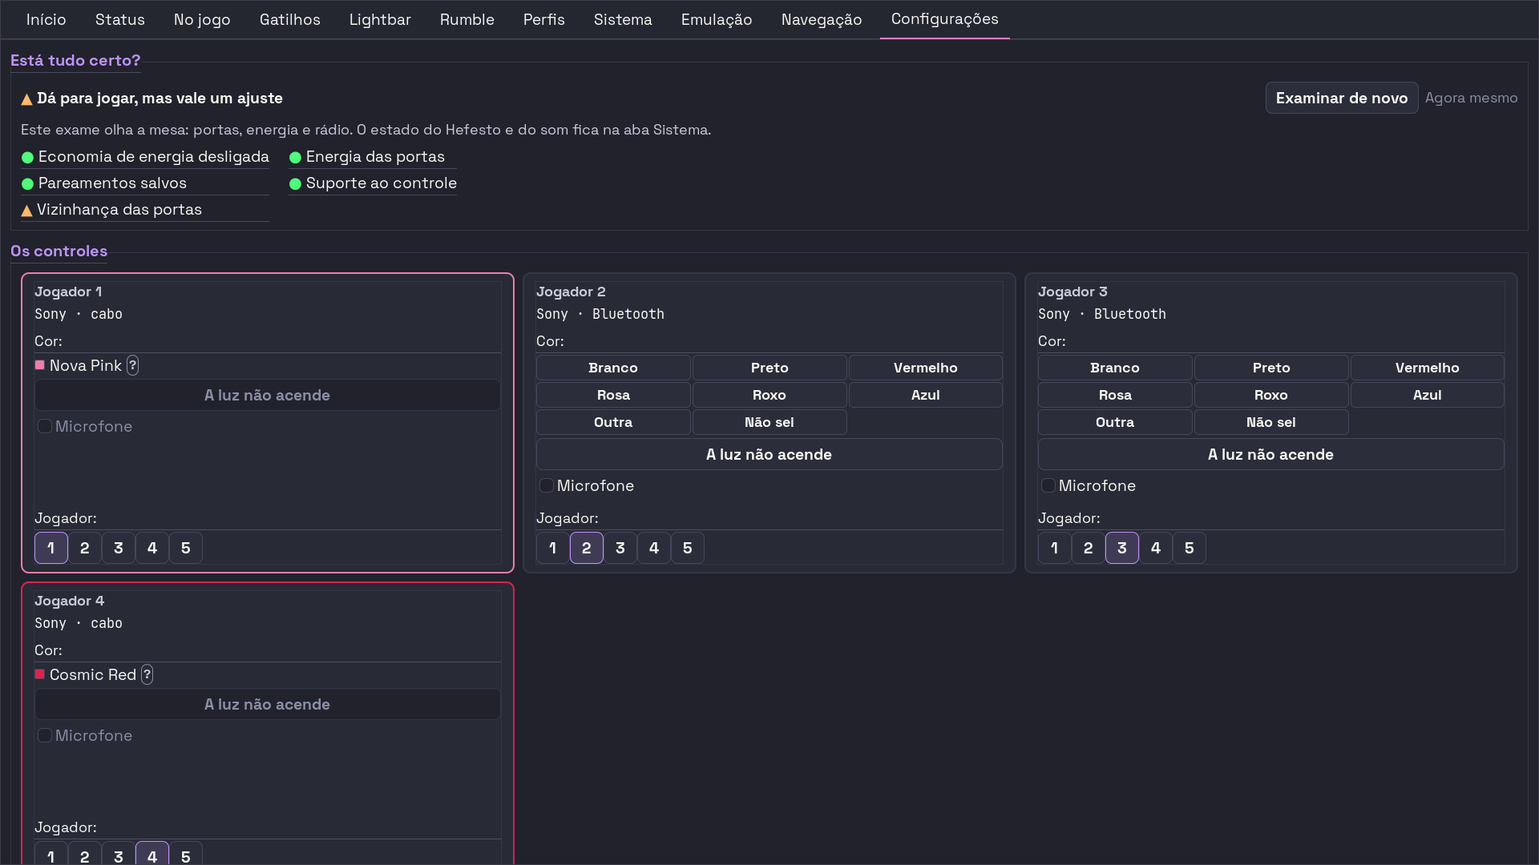
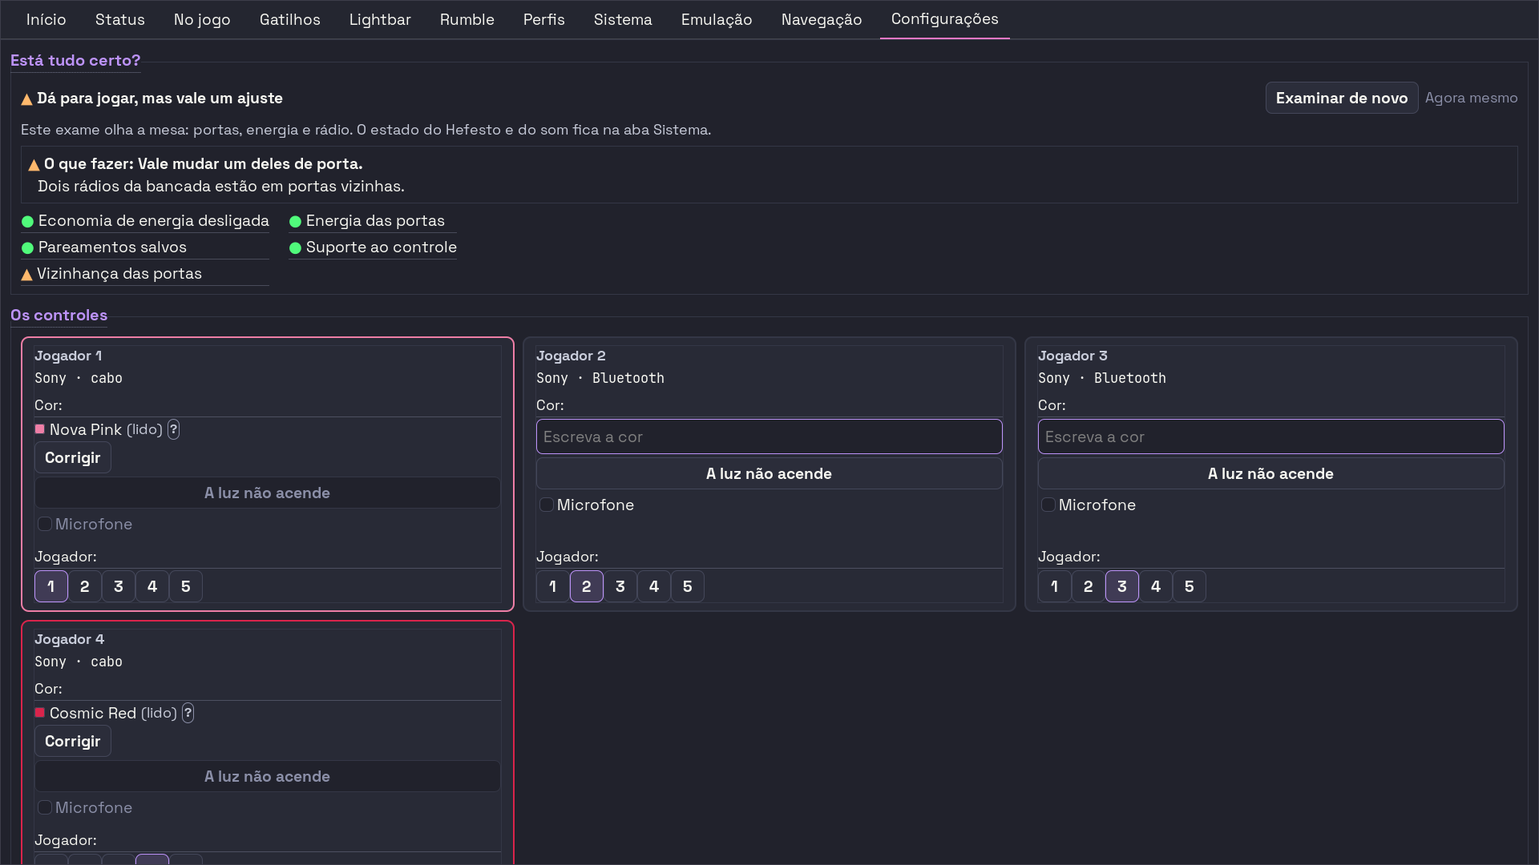
merge(onda-1): as seis frentes chegam ao dev, e a ordem de serviço aparece na tela
Seis árvores, seis merges, ZERO conflitos — e isso é o resultado de medir a
posse antes, não sorte. Cada agente ficou dentro da própria lista; o único que
tocou fora (G4, uma fixture gerada do mockup dele) DECLAROU em vez de esconder,
que é o comportamento que a R1 pede.

O QUE A PESSOA VÊ AGORA, na foto refeita da aba Configurações:

    ▲ O que fazer: Vale mudar um deles de porta.
      Dois rádios da bancada estão em portas vizinhas.

Estava dentro de um `set_tooltip_text`. Quem não passasse o mouse por cima da
palavra certa nunca descobria.

AS SEIS: G1 a ordem de serviço vira card, com as três linhas de procedência e a
que confessa ganho não medido SEMPRE visível · G3 o esquema aprende `perto`,
`alto` e `par`, e a declaração desce ao disco com o daemon parado · G4 os três
números do rádio passam a ter um dono só, no Python E no mockup · G7 o install
lê o firmware e grava o gabinete com selo por campo · G8 o berço fecha a janela
do teardown · G9 o léxico nos arquivos que a frente possui.

**As seis mordidas MORDEM** — arrancadas, reprovaram, devolvidas.

A INTEGRAÇÃO, que é onde o preço aparece:

- **26 lápides apagadas** do portão da casa: a cura chegou e elas ficaram, que é
  como um registro honesto vira mentira. Uma lápide NOVA nasceu declarada no
  lugar delas (`mapa_das_portas::irmas_de`), porque quem a consome é a G5 e a G5
  não saiu nesta leva.
- **Dois vermelhos previstos pelo G9**, e ele deixou o conserto escrito: a frase
[…]

diff --git a/painel.html b/painel.html
@@ -163,7 +163,7 @@ footer a { color: var(--color-accent); }
 <body>
 <div class="envelope">
 
-  <p class="selo">gerado em 25/08/2026 às 21:39 · branch dev · 0a42f08</p>
+  <p class="selo">gerado em 25/08/2026 às 22:00 · branch dev · 69aee15</p>
   <h1><b>Hefesto</b> · painel do projeto</h1>
   <p class="lede">O irmão do <a href="specs.html">mapa de canais</a>. Aquele responde
      <em>o que o aparelho entende</em>; este responde <em>onde o projeto está</em>.
@@ -259,8 +259,8 @@ footer a { color: var(--color-accent); }
        idade ao lado. <strong>Ausência de medição é declarada, nunca preenchida com
        zero</strong> — é a mesma regra do mapa de canais, e existe porque zero pinta
        verde.</p>
-    <p>Árvore: 1 arquivo(s) com mudança não commitada em
-       <code>0a42f08</code> — <em>chore(posse): as oito sprints de daemon e co-op ganham dono, e nasce a leva de background</em>.</p>
+    <p>Árvore: 6 arquivo(s) com mudança não commitada em
+       <code>69aee15</code> — <em>merge(CONFIGURACOES-O-LEXICO-01-G9): a frente chega ao dev</em>.</p>
   </footer>
 
 </div>

diff --git a/tests/unit/portao_a_casa_sabe_e_o_produto_nao_faz.py b/tests/unit/portao_a_casa_sabe_e_o_produto_nao_faz.py
@@ -1410,45 +1410,6 @@ _SEM_CAMINHO_HOJE: dict[str, str] = {
     ),
     # --- 25/08/2026: `integrations/entradas_do_gabinete.py` nasceu nesta
     #     madrugada, e ainda não tem tela que o consuma
-    "integrations/entradas_do_gabinete.py::Furo": (
-        "MEDIDO em 25/08/2026: nasceu HOJE, na CAL-1 da CALIBRAR-AS- "
-        "ENTRADAS-01, cuja tela ela APROVOU vendo o mockup às 03h55. Responde "
-        "o que nenhuma leitura respondia: quais entradas USB EXISTEM, "
-        "**incluindo as vazias** — o nó da entrada existe com `state = not "
-        "attached`, e é isso que torna a calibração possível sem root. ONDE O "
-        "CAMINHO SE PERDE: as telas da calibração (CAL-3 a CAL-7) ficaram "
-        "para a leva seguinte, porque dependem do campo `mapa` que outra "
-        "frente escrevia em paralelo. O QUE O FECHA: a janela de calibração. "
-        "A mordida do agrupamento por `peer` foi refeita por quem coordena: "
-        "arrancada, 4 reprovam (o par 2.0/3.0 vira dois buracos e a caminhada "
-        "passa a visitar o buraco ocupado); devolvida, 12 passam. "
-    ),
-    "integrations/entradas_do_gabinete.py::NoDeEntrada": (
-        "MEDIDO em 25/08/2026: nasceu HOJE, na CAL-1 da CALIBRAR-AS- "
-        "ENTRADAS-01, cuja tela ela APROVOU vendo o mockup às 03h55. Responde "
-        "o que nenhuma leitura respondia: quais entradas USB EXISTEM, "
-        "**incluindo as vazias** — o nó da entrada existe com `state = not "
-        "attached`, e é isso que torna a calibração possível sem root. ONDE O "
-        "CAMINHO SE PERDE: as telas da calibração (CAL-3 a CAL-7) ficaram "
-        "para a leva seguinte, porque dependem do campo `mapa` que outra "
-        "frente escrevia em paralelo. O QUE O FECHA: a janela de calibração. "
-        "A mordida do agrupamento por `peer` foi refeita por quem coordena: "
-        "arrancada, 4 reprovam (o par 2.0/3.0 vira dois buracos e a caminhada "
-        "passa a visitar o buraco ocupado); devolvida, 12 passam. "
-    ),
-    "integrations/entradas_do_gabinete.py::entrada_de": (
-        "MEDIDO em 25/08/2026: nasceu HOJE, na CAL-1 da CALIBRAR-AS- "
-        "ENTRADAS-01, cuja tela ela APROVOU vendo o mockup às 03h55. Responde "
-        "o que nenhuma leitura respondia: quais entradas USB EXISTEM, "
-        "**incluindo as vazias** — o nó da entrada existe com `state = not "
-        "attached`, e é isso que torna a calibração possível sem root. ONDE O "
-        "CAMINHO SE PERDE: as telas da calibração (CAL-3 a CAL-7) ficaram "
-        "para a leva seguinte, porque dependem do campo `mapa` que outra "
-        "frente escrevia em paralelo. O QUE O FECHA: a janela de calibração. "
-        "A mordida do agrupamento por `peer` foi refeita por quem coordena: "
-        "arrancada, 4 reprovam (o par 2.0/3.0 vira dois buracos e a caminhada "
-        "passa a visitar o buraco ocupado); devolvida, 12 passam. "
-    ),
     "integrations/entradas_do_gabinete.py::furo_declarado": (
         "MEDIDO em 25/08/2026: nasceu HOJE, na CAL-1 da CALIBRAR-AS- "
         "ENTRADAS-01, cuja tela ela APROVOU vendo o mockup às 03h55. Responde "
@@ -1462,56 +1423,7 @@ _SEM_CAMINHO_HOJE: dict[str, str] = {
         "arrancada, 4 reprovam (o par 2.0/3.0 vira dois buracos e a caminhada "
         "passa a visitar o buraco ocupado); devolvida, 12 passam. "
     ),
-    "integrations/entradas_do_gabinete.py::furos": (
-        "MEDIDO em 25/08/2026: nasceu HOJE, na CAL-1 da CALIBRAR-AS- "
-        "ENTRADAS-01, cuja tela ela APROVOU vendo o mockup às 03h55. Responde "
-        "o que nenhuma leitura respondia: quais entradas USB EXISTEM, "
-        "**incluindo as vazias** — o nó da entrada existe com `state = not "
-        "attached`, e é isso que torna a calibração possível sem root. ONDE O "
-        "CAMINHO SE PERDE: as telas da calibração (CAL-3 a CAL-7) ficaram "
-        "para a leva seguinte, porque dependem do campo `mapa` que outra "
-        "frente escrevia em paralelo. O QUE O FECHA: a janela de calibração. "
-        "A mordida do agrupamento por `peer` foi refeita por quem coordena: "
-        "arrancada, 4 reprovam (o par 2.0/3.0 vira dois buracos e a caminhada "
-        "passa a visitar o buraco ocupado); devolvida, 12 passam. "
-    ),
-    "integrations/entradas_do_gabinete.py::listar_entradas": (
-        "MEDIDO em 25/08/2026: nasceu HOJE, na CAL-1 da CALIBRAR-AS- "
-        "ENTRADAS-01, cuja tela ela APROVOU vendo o mockup às 03h55. Responde "
-        "o que nenhuma leitura respondia: quais entradas USB EXISTEM, "
-        "**incluindo as vazias** — o nó da entrada existe com `state = not "
-        "attached`, e é isso que torna a calibração possível sem root. ONDE O "
-        "CAMINHO SE PERDE: as telas da calibração (CAL-3 a CAL-7) ficaram "
-        "para a leva seguinte, porque dependem do campo `mapa` que outra "
-        "frente escrevia em paralelo. O QUE O FECHA: a janela de calibração. "
-        "A mordida do agrupamento por `peer` foi refeita por quem coordena: "
-        "arrancada, 4 reprovam (o par 2.0/3.0 vira dois buracos e a caminhada "
-        "passa a visitar o buraco ocupado); devolvida, 12 passam. "
-    ),
-    "integrations/entradas_do_gabinete.py::vazias": (
-        "MEDIDO em 25/08/2026: nasceu HOJE, na CAL-1 da CALIBRAR-AS- "
-        "ENTRADAS-01, cuja tela ela APROVOU vendo o mockup às 03h55. Responde "
-        "o que nenhuma leitura respondia: quais entradas USB EXISTEM, "
-        "**incluindo as vazias** — o nó da entrada existe com `state = not "
-        "attached`, e é isso que torna a calibração possível sem root. ONDE O "
-        "CAMINHO SE PERDE: as telas da calibração (CAL-3 a CAL-7) ficaram "
-        "para a leva seguinte, porque dependem do campo `mapa` que outra "
-        "frente escrevia em paralelo. O QUE O FECHA: a janela de calibração. "
-        "A mordida do agrupamento por `peer` foi refeita por quem coordena: "
-        "arrancada, 4 reprovam (o par 2.0/3.0 vira dois buracos e a caminhada "
-        "passa a visitar o buraco ocupado); devolvida, 12 passam. "
-    ),
     # --- 25/08/2026: `integrations/lugar_declarado.py` nasceu nesta madrugada, e ainda não tem tela
-    "integrations/lugar_declarado.py::Recibo": (
-        "MEDIDO em 25/08/2026: a CAL-2 da calibração. Existe para curar um "
-        "defeito nomeado: hoje o ÚNICO escritor do `maquina.json` é o IPC "
-        "`machine.declare`, logo **com o daemon parado nada do que ela "
-        "declara chega ao disco** — o rodapé responde 'O Hefesto está "
-        "desligado, não gravei o que você declarou'. Este módulo liga o "
-        "`gravar_rascunho_da_mesa`, que estava escrito desde 24/08 e nunca "
-        "teve chamador. ONDE O CAMINHO SE PERDE: quem o chamaria é a janela "
-        "de calibração, que é da leva seguinte. O QUE O FECHA: a CAL-3. "
-    ),
     "integrations/lugar_declarado.py::declarar_a_mesa": (
         "MEDIDO em 25/08/2026: a CAL-2 da calibração. Existe para curar um "
         "defeito nomeado: hoje o ÚNICO escritor do `maquina.json` é o IPC "
@@ -1523,6 +1435,23 @@ _SEM_CAMINHO_HOJE: dict[str, str] = {
         "de calibração, que é da leva seguinte. O QUE O FECHA: a CAL-3. "
     ),
     # --- 25/08/2026: `integrations/mapa_das_portas.py` nasceu nesta madrugada, e ainda não tem tela
+    "integrations/mapa_das_portas.py::irmas_de": (
+        "NASCEU em 25/08/2026, na frente G3, e nasce COM a lápide de propósito. "
+        "É a fonte do `Entrada.par` que `arranjo_da_mesa.nota_de` precisa para "
+        "disparar as penalidades de vizinho rádio (-30 teclado, -45 bluetooth, "
+        "-40 mouse) — sem ela o motor publica juízo otimista demais, dizendo "
+        "'aqui fica bem' onde deveria dizer 'aqui não'. "
+        "POR QUE ACRESCENTAR EM VEZ DE EDITAR `vizinhas_de_verdade`: dois "
+        "batedores mandaram coisas opostas sobre a mesma função, e a que já "
+        "existe tem consumidor e teste — mexer nela para servir a um segundo "
+        "propósito é como se perde a primeira. "
+        "ONDE O CAMINHO SE PERDE: quem a consome é a G5, a janela do desenho "
+        "que julga cada quadrado, e a G5 não saiu nesta leva — ela espera a "
+        "medição das duas réguas do arranjo (decisão dela de 25/08) e o olho "
+        "dela sobre a janela do mapa, que ninguém nunca viu. "
+        "O QUE O FECHA: `mapa_da_mesa.py` chamar `irmas_de(mapa, entradas)` ao "
+        "montar a `Mesa`. Uma linha, quando a G5 sair."
+    ),
     "integrations/mapa_das_portas.py::incoerencias": (
         "MEDIDO em 25/08/2026: as quatro funções de junção da CONEXOES- "
         "MAPA-2D-01 (`portas_livres`, `vizinhas_de_verdade`, `incoerencias`, "
@@ -1536,30 +1465,6 @@ _SEM_CAMINHO_HOJE: dict[str, str] = {
         "extensor) muda o cálculo de vizinhança. "
     ),
     "integrations/mapa_das_portas.py::porta_do_adaptador": (
-        "MEDIDO em 25/08/2026: as quatro funções de junção da CONEXOES- "
-        "MAPA-2D-01 (`portas_livres`, `vizinhas_de_verdade`, `incoerencias`, "
-        "`porta_do_adaptador`). Prontas e testadas. ONDE O CAMINHO SE PERDE: "
-        "quem as consome é a ORDEM-DE-SERVICO-01, que rodou na MESMA "
-        "madrugada, e as tarefas de tela dela pararam no olho dela (D3). O "
-        "QUE O FECHA: as frases da ordem de serviço na aba Conexões. A sprint "
-        "do mapa manda explicitamente que a Frente B consuma "
-        "`vizinhas_de_verdade` em vez de mexer em "
-        "`mesa_de_radio.vizinhancas_apertadas`, porque a porta-filha (o "
-        "extensor) muda o cálculo de vizinhança. "
-    ),
-    "integrations/mapa_das_portas.py::portas_livres": (
-        "MEDIDO em 25/08/2026: as quatro funções de junção da CONEXOES- "
-        "MAPA-2D-01 (`portas_livres`, `vizinhas_de_verdade`, `incoerencias`, "
-        "`porta_do_adaptador`). Prontas e testadas. ONDE O CAMINHO SE PERDE: "
-        "quem as consome é a ORDEM-DE-SERVICO-01, que rodou na MESMA "
-        "madrugada, e as tarefas de tela dela pararam no olho dela (D3). O "
-        "QUE O FECHA: as frases da ordem de serviço na aba Conexões. A sprint "
-        "do mapa manda explicitamente que a Frente B consuma "
-        "`vizinhas_de_verdade` em vez de mexer em "
-        "`mesa_de_radio.vizinhancas_apertadas`, porque a porta-filha (o "
-        "extensor) muda o cálculo de vizinhança. "
-    ),
-    "integrations/mapa_das_portas.py::vizinhas_de_verdade": (
         "MEDIDO em 25/08/2026: as quatro funções de junção da CONEXOES- "
         "MAPA-2D-01 (`portas_livres`, `vizinhas_de_verdade`, `incoerencias`, "
         "`porta_do_adaptador`). Prontas e testadas. ONDE O CAMINHO SE PERDE: "
@@ -1589,65 +1494,15 @@ _SEM_CAMINHO_HOJE: dict[str, str] = {
     # O QUE FECHA: ORDEM-4 liga o catálogo ao exame e ORDEM-5 publica os cards.
     # ORDEM-5 é texto novo na tela e passa pelo olho dela ANTES.
     # DONO: a própria ORDEM-DE-SERVIÇO-01, frente B da leva Configurações.
-    "integrations/ordens_da_mesa.py::catalogo": (
-        "MEDIDO em 25/08/2026: é a porta do módulo — as seis regras entram por "
-        "aqui, e o que sai não é consumido por ninguém. Ver o bloco acima para "
-        "onde o caminho se perde e o que o fecha."
-    ),
-    "integrations/ordens_da_mesa.py::radio_largo_no_mesmo_hub": (
-        "MEDIDO em 25/08/2026: R1, a regra que só existe porque o `peer` "
-        "atravessa o `busnum`. Cai junto com `catalogo` e pelo mesmo motivo — e "
-        "é por isso que não ganha entrada própria de conserto."
-    ),
-    "integrations/ordens_da_mesa.py::dois_radios_colados": (
-        "MEDIDO em 25/08/2026: R2, a que filtra a webcam de cabo. Cai junto com "
-        "`catalogo` e pelo mesmo motivo — e é por isso que não ganha entrada "
-        "própria de conserto."
-    ),
-    "integrations/ordens_da_mesa.py::dongle_atras_de_hub": (
-        "MEDIDO em 25/08/2026: R3, com a contra-regra que nunca acusa dongle de "
-        "dongle. Cai junto com `catalogo` e pelo mesmo motivo — e é por isso "
-        "que não ganha entrada própria de conserto."
-    ),
-    "integrations/ordens_da_mesa.py::teclado_so_no_hub": (
-        "MEDIDO em 25/08/2026: R4, a única que não fala de rádio. Cai junto com "
-        "`catalogo` e pelo mesmo motivo — e é por isso que não ganha entrada "
-        "própria de conserto."
-    ),
-    "integrations/ordens_da_mesa.py::dongle_dorme": (
-        "MEDIDO em 25/08/2026: R5, que CALA nesta bancada, e isso é resultado. "
-        "Cai junto com `catalogo` e pelo mesmo motivo — e é por isso que não "
-        "ganha entrada própria de conserto."
-    ),
-    "integrations/ordens_da_mesa.py::entrada_reclamou_de_corrente": (
-        "MEDIDO em 25/08/2026: R6, que CALA pelo mesmo motivo. Cai junto com "
-        "`catalogo` e pelo mesmo motivo — e é por isso que não ganha entrada "
-        "própria de conserto."
-    ),
     "integrations/ordens_da_mesa.py::cabecalho": (
         "MEDIDO em 25/08/2026: os quatro cabeçalhos da §8.3, derivados num "
         "lugar só. Cai junto com `catalogo` e pelo mesmo motivo — e é por isso "
         "que não ganha entrada própria de conserto."
     ),
-    "integrations/ordens_da_mesa.py::Cabecalho": (
-        "MEDIDO em 25/08/2026: o tipo que `cabecalho` devolve. Cai junto com "
-        "`catalogo` e pelo mesmo motivo — e é por isso que não ganha entrada "
-        "própria de conserto."
-    ),
     "integrations/ordens_da_mesa.py::identidades": (
         "MEDIDO em 25/08/2026: a tripla que decide a ambiguidade, e onde o "
         "serial morre. Cai junto com `catalogo` e pelo mesmo motivo — e é por "
         "isso que não ganha entrada própria de conserto."
-    ),
-    "integrations/ordens_da_mesa.py::Identidade": (
-        "MEDIDO em 25/08/2026: o que `identidades` devolve, já sem o serial. "
-        "Cai junto com `catalogo` e pelo mesmo motivo — e é por isso que não "
-        "ganha entrada própria de conserto."
-    ),
-    "integrations/ordens_da_mesa.py::mesmo_hub_fisico": (
-        "MEDIDO em 25/08/2026: a régua de plástico que R1 consome. Cai junto "
-        "com `catalogo` e pelo mesmo motivo — e é por isso que não ganha "
-        "entrada própria de conserto."
     ),
     "integrations/ordens_da_mesa.py::ordens_novas": (
         "MEDIDO em 25/08/2026: o leitor de `MesaDeclarada.ordens_dispensadas`. "
@@ -1664,36 +1519,11 @@ _SEM_CAMINHO_HOJE: dict[str, str] = {
         "não desenhou. Cai junto com `catalogo` e pelo mesmo motivo — e é por "
         "isso que não ganha entrada própria de conserto."
     ),
-    "integrations/ordens_da_mesa.py::Ordem": (
-        "MEDIDO em 25/08/2026: o tipo que todas as regras devolvem. Cai junto "
-        "com `catalogo` e pelo mesmo motivo — e é por isso que não ganha "
-        "entrada própria de conserto."
-    ),
-    "integrations/ordens_da_mesa.py::Linha": (
-        "MEDIDO em 25/08/2026: a frase com selo de procedência. Cai junto com "
-        "`catalogo` e pelo mesmo motivo — e é por isso que não ganha entrada "
-        "própria de conserto."
-    ),
-    "integrations/ordens_da_mesa.py::Leitura": (
-        "MEDIDO em 25/08/2026: o ponto único de injeção que as regras recebem. "
-        "Cai junto com `catalogo` e pelo mesmo motivo — e é por isso que não "
-        "ganha entrada própria de conserto."
-    ),
     # `portas_do_barramento.py` é a camada de sysfs que `ordens_da_mesa`
     # consome. Ela tem chamador de produção (`mesmo_hub_fisico` importa
     # `hubs_do_mesmo_plastico` desde 25/08), mas esse chamador é o próprio
     # catálogo — que também não chega à tela. Cai tudo junto, e pela mesma
     # ORDEM-4/ORDEM-5.
-    "integrations/portas_do_barramento.py::hubs_do_mesmo_plastico": (
-        "MEDIDO em 25/08/2026: a régua de `peer` que "
-        "`ordens_da_mesa.mesmo_hub_fisico` consome. Cai junto com o catálogo de "
-        "ordens, que é quem a consumiria até a tela."
-    ),
-    "integrations/portas_do_barramento.py::hubs_de": (
-        "MEDIDO em 25/08/2026: os hubs que hospedam o buraco onde um aparelho "
-        "está. Cai junto com o catálogo de ordens, que é quem a consumiria até "
-        "a tela."
-    ),
     "integrations/portas_do_barramento.py::mesmo_hub_fisico": (
         "MEDIDO em 25/08/2026: a pergunta de plástico em forma de par de "
         "caminhos. Cai junto com o catálogo de ordens, que é quem a consumiria "
@@ -1703,11 +1533,6 @@ _SEM_CAMINHO_HOJE: dict[str, str] = {
         "MEDIDO em 25/08/2026: o caso em que 'mude um dos dois de entrada' é a "
         "ordem errada. Cai junto com o catálogo de ordens, que é quem a "
         "consumiria até a tela."
-    ),
-    "integrations/portas_do_barramento.py::livres": (
-        "MEDIDO em 25/08/2026: os buracos vazios que uma pessoa alcança com a "
-        "mão. Cai junto com o catálogo de ordens, que é quem a consumiria até a "
-        "tela."
     ),
     "integrations/portas_do_barramento.py::livres_fora_de": (
         "MEDIDO em 25/08/2026: a contra-regra de R3 virada em função. Cai junto "
@@ -2227,16 +2052,6 @@ _SEM_CAMINHO_HOJE: dict[str, str] = {
         "chama só `default_steam_root`. O QUE FECHA: a Onda 5 · Emulação liga "
         "o botão a esta função e decide a frase final com a Z1 (§10 da "
         "sprint)."
-    ),
-    "utils/maquina.py::gravar_rascunho_da_mesa": (
-        "ENTREGUE em 24/08/2026 (T-07, ONDA0-Z7). Mesma gravação atômica de "
-        "`gravar_maquina`, escopada à seção `mesa`, para o gesto de "
-        "'declarar sem clicar Aplicar' ter primitiva própria. ONDE O CAMINHO "
-        "SE PERDE: Z7-B não toca `app/actions/footer_actions.py` (posse "
-        "declarada em §5) — o único escritor de `maquina.json` hoje continua "
-        "sendo o botão 'Aplicar'. O QUE FECHA: a Onda 1 · Configurações "
-        "(CONFIG-03) chama esta função no gesto de declarar, sem esperar o "
-        "clique (§10 da sprint, item 4 do aceite)."
     ),
 }
 

diff --git a/tests/unit/test_config_a_janela_na_tela.py b/tests/unit/test_config_a_janela_na_tela.py
@@ -79,10 +79,11 @@ from hefesto_dualsense4unix.app import ambiente as ambiente_mod
 from hefesto_dualsense4unix.app import theme as theme_mod
 from hefesto_dualsense4unix.app.actions.config import ABA_CONFIG, ConfigActionsMixin
 from hefesto_dualsense4unix.app.actions.config import secao_janela
-from hefesto_dualsense4unix.app.actions.home_actions import (
-    id_da_pagina,
-    id_da_pagina_corrente,
-)
+# `id_da_pagina_corrente` saiu do import em 25/08/2026, junto com o teste do
+# botão "Abrir a aba Sistema" que a LEX-4 removeu a pedido dela. Import órfão
+# não é sujeira de estilo: ele faz o arquivo parecer exercitar um caminho que
+# ninguém exercita mais.
+from hefesto_dualsense4unix.app.actions.home_actions import id_da_pagina
 from hefesto_dualsense4unix.app.constants import MAIN_GLADE
 
 #: O id da extensão que a instrução do GNOME precisa carregar.
@@ -424,9 +425,16 @@ def test_a_tela_diz_que_o_tamanho_vale_ao_reabrir(
     Sem a frase, o clique não faz nada visível e a pessoa conclui que a opção
     está quebrada.
     """
+    # A FRASE VIROU DICA em 25/08/2026 (LEX-2, decisão dela): ela saiu do corpo
+    # da página e passou a morar no tooltip do próprio rótulo. O teste segue o
+    # texto em vez de fossilizar o lugar dele — travar a posição faria esta
+    # régua reprovar toda vez que a aba respirasse.
     bancada = _montar(monkeypatch)
-    frase = bancada.rotulo_que_comeca_com("O tamanho novo")
-    assert "abrir o Hefesto" in frase.get_text()
+    rotulo = bancada.rotulo_que_comeca_com("Tamanho do texto")
+    assert "abrir o Hefesto" in (rotulo.get_tooltip_text() or ""), (
+        "a gravação diferida sumiu da tela: sem a frase, em lugar nenhum, o "
+        "clique não faz nada visível e a pessoa conclui que a opção quebrou."
+    )
 
 
 # --- 3. A sonda da barra do sistema -----------------------------------------
@@ -567,31 +575,10 @@ def test_o_espelho_nao_e_editavel(monkeypatch: pytest.MonkeyPatch) -> None:
     assert isinstance(bancada.host._config_autostart_estado, Gtk.Label)
 
 
-def test_o_atalho_abre_a_aba_sistema_pelo_id(
-    monkeypatch: pytest.MonkeyPatch,
-) -> None:
-    """A página é achada pelo id do Glade, nunca pelo número (EST-10).
-
-    O teste REORDENA o notebook antes de clicar, e é isso que o torna um
-    portão: hoje `daemon_box` é a página 7, então um `set_current_page(7)`
-    escrito à mão passaria calado por um teste que não mexesse na ordem — e
-    passaria a abrir a aba errada no dia em que alguém inserisse uma página
-    antes dela. Esta leva acabou de inserir uma.
-
-    Mordida: trocar a busca por `set_current_page(7)`, o índice CERTO de hoje.
-    """
-    bancada = _montar(monkeypatch)
-    notebook = bancada.builder.get_object("main_notebook")
-    sistema = _pagina_do_notebook(notebook, "daemon_box")
-    assert notebook.page_num(sistema) == 7, (
-        "a página Sistema mudou de lugar; o índice citado na mordida caducou"
-    )
-    notebook.reorder_child(sistema, 0)
-
-    pagina_config = bancada.builder.get_object("scroll_tab_config_box")
-    notebook.set_current_page(notebook.page_num(pagina_config))
-    assert id_da_pagina_corrente(notebook) == ABA_CONFIG
-
-    bancada.botao("Abrir a aba Sistema").clicked()
-
-    assert id_da_pagina_corrente(notebook) == "daemon_box"
+# `test_o_atalho_abre_a_aba_sistema_pelo_id` SAIU em 25/08/2026, e a razão é
+# dela: o botão "Abrir a aba Sistema" foi REMOVIDO da seção "A janela" (LEX-4,
+# pedido literal). Um teste que exige um botão que o produto não tem mais não é
+# regressão — é fóssil, e fóssil protege o defeito que a remoção veio curar.
+#
+# A cobertura não se perdeu, mudou de lado: `test_a_janela_nao_tem_botao_de_abrir_a_aba_sistema`,
+# em `test_o_lexico_da_aba_configuracoes.py:431`, garante que ele NÃO VOLTA.

diff --git a/tests/unit/test_o_lexico_da_aba_configuracoes.py b/tests/unit/test_o_lexico_da_aba_configuracoes.py
@@ -547,7 +547,7 @@ def test_quem_so_sabe_que_e_vermelho_continua_achando() -> None:
     )
 
 
-def test_clicar_numa_linha_escolhe_AQUELA_linha() -> None:
+def test_clicar_numa_linha_escolhe_aquela_linha() -> None:
     """O gesto inteiro: digitar, ver duas sugestões, clicar na SEGUNDA.
 
     A segunda e não a primeira de propósito: uma implementação que sempre
